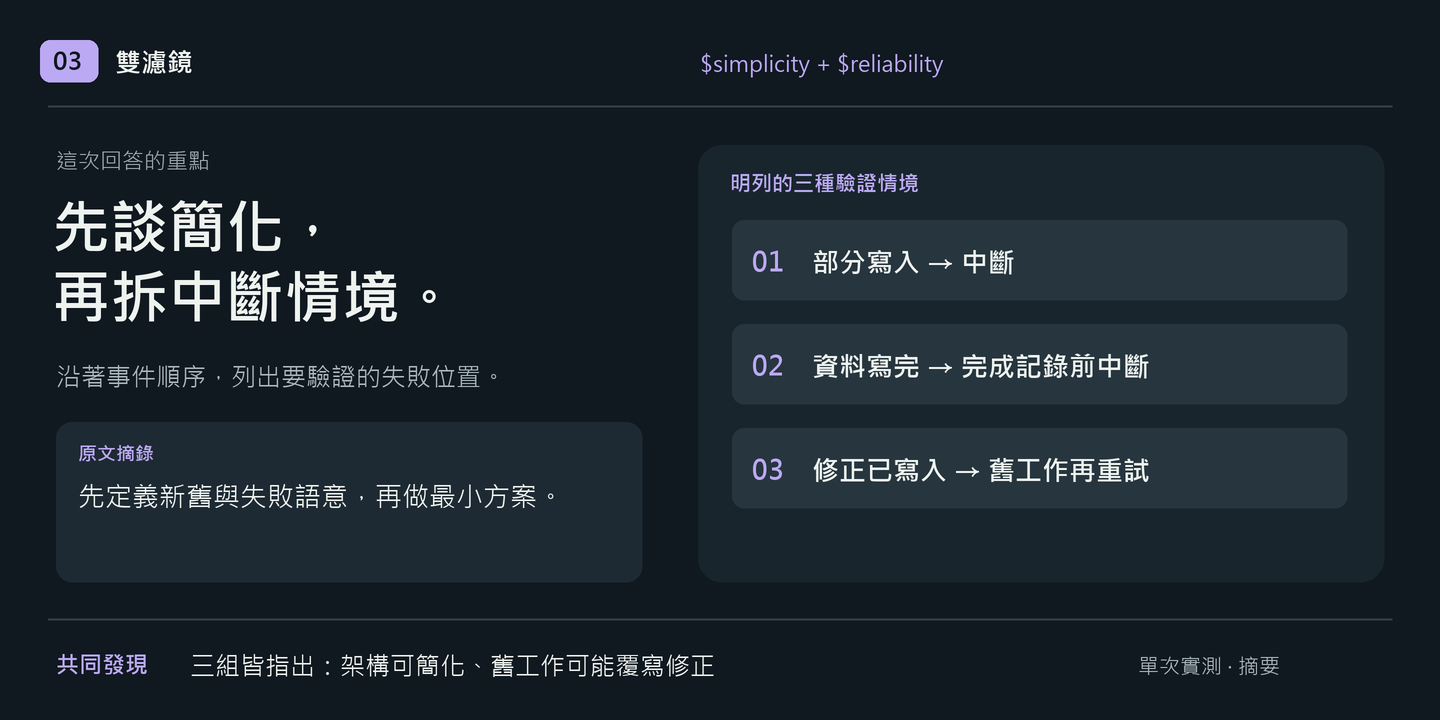
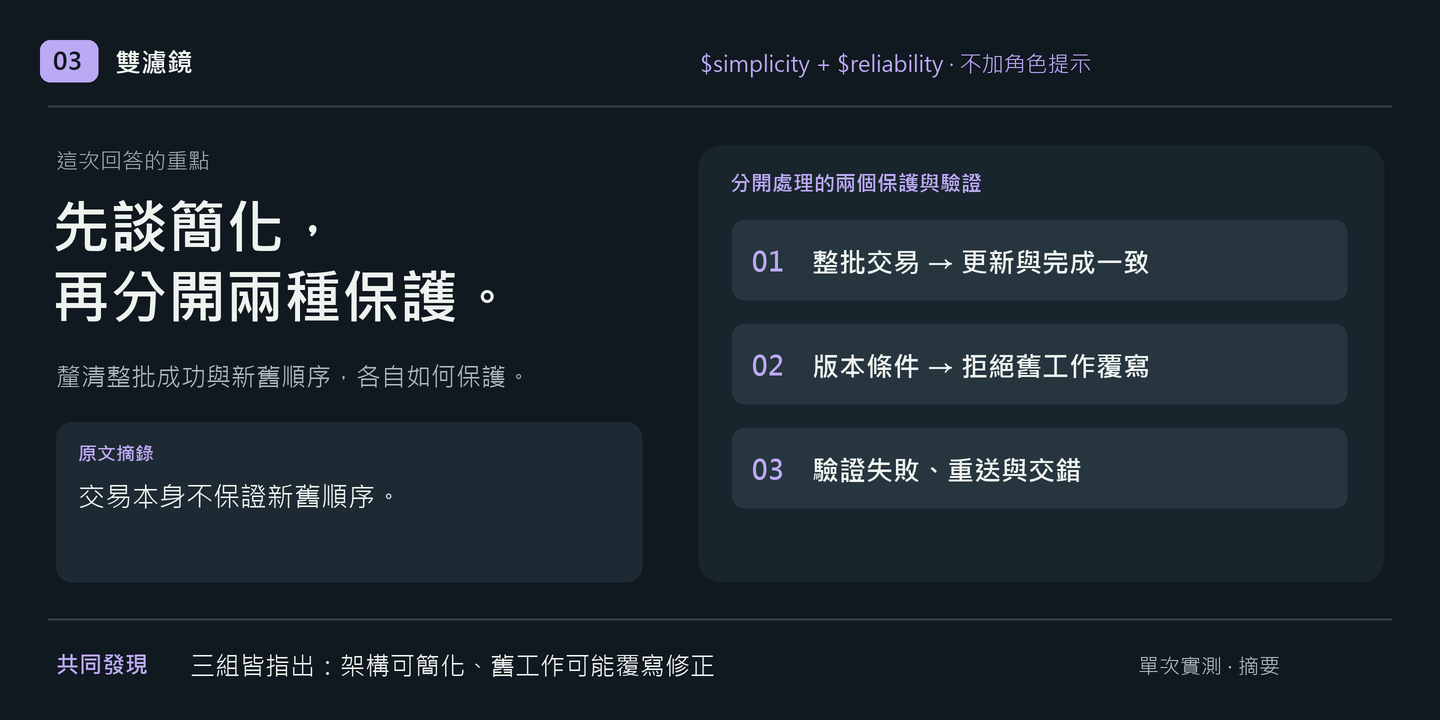
docs: rerun role prompt versus standalone lens comparison

diff --git a/scripts/render_readme_examples.py b/scripts/render_readme_examples.py
@@ -48,7 +48,7 @@ def render(slug, number, label, command, headline, subhead, quote, accent):
     box(698,145,686,437,'#18252d',24)
     if slug == 'baseline':
         txt(730,168,'回答順序',21,accent,True)
-        items=[('01','重試會覆蓋修正嗎？'),('02','架構可以縮小嗎？'),('03','先定義更新順序')]
+        items=[('01','重試會覆蓋修正嗎？'),('02','寫入與完成狀態一致嗎？'),('03','定義順序，再縮小方案')]
         for i,(n,t) in enumerate(items):
             y=221+i*104
             box(731,y,618,80,'#26353e',12)
@@ -56,7 +56,7 @@ def render(slug, number, label, command, headline, subhead, quote, accent):
             txt(820,y+20,t,30,bold=True)
             if i<2: line(771,y+80,771,y+104,accent,3)
     elif slug == 'single':
-        txt(730,168,'具體做法（若以上傳順序為準）',21,accent,True)
+        txt(730,168,'具體做法（若以受理順序為準）',21,accent,True)
         box(735,226,263,105,'#26353e',14)
         box(1080,226,263,105,'#26353e',14)
         txt(757,240,'工作',23,'#abb8bf')
@@ -70,8 +70,8 @@ def render(slug, number, label, command, headline, subhead, quote, accent):
         txt(750,478,'重試沿用序號，保護新舊順序',26)
         txt(750,521,'先簡化架構，再補必要保護',22,'#abb8bf')
     else:
-        txt(730,168,'明列的三種驗證情境',21,accent,True)
-        for i,(a,b) in enumerate([('01','部分寫入 → 中斷'),('02','資料寫完 → 完成記錄前中斷'),('03','修正已寫入 → 舊工作再重試')]):
+        txt(730,168,'分開處理的兩個保護與驗證',21,accent,True)
+        for i,(a,b) in enumerate([('01','整批交易 → 更新與完成一致'),('02','版本條件 → 拒絕舊工作覆寫'),('03','驗證失敗、重送與交錯')]):
             y=220+i*104
             box(732,y,615,80,'#26353e',12)
             txt(752,y+22,a,27,accent,True)
@@ -88,6 +88,6 @@ def render(slug, number, label, command, headline, subhead, quote, accent):
 
 seventy=70
 if __name__=='__main__':
-    render('baseline','01','無濾鏡','你是資深工程師…', ['先抓風險，','再縮小架構。'],'從資料正確性開始，接著檢查方案成本。','最重要的缺口是重試與並行更新的正確性。','#edc183')
-    render('single','02','單一濾鏡','$simplicity', ['先問必要性，','再具體到序號。'],'先談簡化，也提出更新順序的實作條件。','同一 job 重試保留序號。','#8bdbc2')
-    render('dual','03','雙濾鏡','$simplicity + $reliability', ['先談簡化，','再拆中斷情境。'],'沿著事件順序，列出要驗證的失敗位置。','先定義新舊與失敗語意，再做最小方案。','#bca9f4')
+    render('baseline','01','角色提示（無濾鏡）','只用「你是資深工程師」', ['先抓覆寫，','再查完成狀態。'],'先談兩個失敗風險，再建議縮小方案。','但交易本身不能阻止舊工作晚到覆寫。','#edc183')
+    render('single','02','單一濾鏡','$simplicity · 不加角色提示', ['先問必要性，','再具體到序號。'],'先談簡化，再提出有條件的版本方案。','減少層數或只加交易都不能解決此問題。','#8bdbc2')
+    render('dual','03','雙濾鏡','$simplicity + $reliability · 不加角色提示', ['先談簡化，','再分開兩種保護。'],'釐清整批成功與新舊順序，各自如何保護。','交易本身不保證新舊順序。','#bca9f4')

diff --git a/examples/csv-import/README.md b/examples/csv-import/README.md
@@ -1,12 +1,14 @@
 # CSV 匯入：單次三組對照
 
-2026-09-07，三個獨立 subagent 各回答一次，未繼承主對話（`fork_turns="none"`），未看到其他組回答；未重抽或改寫回答。三組沿用主代理模型設定，沒有覆寫模型或推理設定；工具沒有回傳可供核對的模型版本與隨機種子，因此不主張完全可重現。
+2026-09-07，以修正後的比較方式重新執行。三個獨立 subagent 各回答一次，未繼承主對話（`fork_turns="none"`），未看到其他組回答；本輪未重抽或改寫回答。三組沿用主代理模型設定，沒有覆寫模型或推理設定；工具沒有回傳可供核對的模型版本與隨機種子，因此不主張完全可重現。
 
-共同輸入以「你是資深工程師，請審查以下方案，提出有依據、可執行的建議」開頭；共同要求繁體中文、250–400 字、最多三個重點。長度是提示要求，輸出全文照錄，未為符合字數刪改。各組的唯一預定變因是額外讀取並使用的濾鏡。此處以讀取 SKILL.md 使用濾鏡，沒有測試安裝後的 `$` 介面。
+共同輸入只包含中性的審查要求、相同材料與問題，要求繁體中文、250–400 字、最多三個重點。只有角色組加上「你是資深工程師」；單濾鏡組只使用 simplicity，雙濾鏡組只使用 simplicity 與 reliability，兩個濾鏡組都不加資深工程師角色提示。長度是提示要求，輸出全文照錄，未為符合字數刪改。此處以讀取 SKILL.md 使用濾鏡，沒有測試安裝後的 `$` 介面。
+
+本輪比較的是角色提示與濾鏡兩種引導方式。舊版讓所有組別都帶角色提示，測到的是加成，已由本輪圖文與回答取代；舊紀錄可在 Git 歷史 `40efcca` 查閱，不納入本輪結論。
 
 | 組別 | 實際派送提示詞 | 回答全文 | 額外材料 |
 |---|---|---|---|
-| 無濾鏡 | [提示詞](baseline-prompt.txt) | [原始回答](baseline.md) | 無 |
+| 角色提示（無濾鏡） | [提示詞](baseline-prompt.txt) | [原始回答](baseline.md) | 無 |
 | 單一濾鏡 | [提示詞](single-prompt.txt) | [原始回答](single.md) | [simplicity](../../dist/skills/simplicity/SKILL.md) |
 | 雙濾鏡 | [提示詞](dual-prompt.txt) | [原始回答](dual.md) | simplicity 與 [reliability](../../dist/skills/reliability/SKILL.md) |
 
@@ -14,7 +16,7 @@
 
 ## 這次看到了什麼
 
-三組都不建議直接實作，都指出預留格式的複雜度、佇列需要量測，以及舊工作覆寫的風險。無濾鏡組先談正確性；單濾鏡組先談簡化，具體提出遞增序號，另提出手動編輯的條件性缺口；雙濾鏡組先談簡化，再描述事件順序，列出三個驗證情境。這些是本次回答的可見差異，不能歸因為濾鏡的穩定效果，也不能據此宣稱雙濾鏡較好。
+三組都不建議直接實作，都指出預留格式的複雜度、佇列需要量測、舊工作覆寫與完成狀態的風險，也都提出驗證情境。角色組先談覆寫與完成狀態，最後縮小方案，並詢問人工修改是否也要保護；單濾鏡組先談簡化，再提出以受理順序保存序號的條件式方案，提及鎖定影響待量測；雙濾鏡組同樣先談簡化，明確詢問是否允許部分成功，分開說明交易與版本條件的用途。三組都有區分交易與更新順序的保護，並非雙濾鏡獨有發現。這些是本次回答的可見差異，不能歸因為濾鏡的穩定效果，也不能據此宣稱雙濾鏡較好。
 
 這是虛構方案的單次提示對照，未執行回答中的技術建議，未測量正確率或新使用者理解程度。沒有獨立評分或多次重跑。
 
@@ -27,7 +29,7 @@
[2 lines of base64/hex data omitted]
 
-圖片是編輯整理的重點摘要，搭配回答順序、條件式序號方案或驗證情境的視覺呈現；每張附一句逐字原文摘錄。完整原始回答保留在上方連結，摘要不代表其他組沒有提到該項內容。腳本會核對摘錄存在於原文。可在 Windows、已安裝 Pillow 與微軟正黑體的環境重建：
+圖片是編輯整理的重點摘要，搭配各組回答的視覺呈現；每張附一句逐字原文摘錄。完整原始回答保留在上方連結，摘要不代表其他組沒有提到該項內容。腳本會核對摘錄存在於原文。可在 Windows、已安裝 Pillow 與微軟正黑體的環境重建：
 
 ```powershell
 python -B -X utf8 scripts/render_readme_examples.py

diff --git a/README.md b/README.md
@@ -8,15 +8,15 @@
 
 **同一份材料，換個關注面向，回答會差在哪？** 我們讓三個獨立 subagent 審查同一份 CSV 客戶匯入方案：目前只需 CSV，提案預留多格式架構，失敗會整批重試，也可能與修正後的匯入同時執行。
 
-三組都使用「你是資深工程師，請審查以下方案，提出有依據、可執行的建議」，後兩組再加入指定濾鏡。下圖將單次實測整理成重點摘要，各附一句原文；完整回答見下方連結。
+三組使用相同材料與問題：**角色組只加「你是資深工程師」，單濾鏡組只用 `$simplicity`，雙濾鏡組只用 `$simplicity` ＋ `$reliability`。** 兩個濾鏡組都不加資深工程師角色提示。下圖將單次實測整理成重點摘要，各附一句原文；完整回答見下方連結。
 
-![無濾鏡實際回答：指出舊工作覆寫風險、縮小架構與定義更新順序。完整文字見下方連結。](docs/images/csv-import-baseline.png)
+![角色提示組：先談舊工作覆寫與完成狀態，再縮小方案。完整文字見下方連結。](docs/images/csv-import-baseline.png)
 
-![單一 simplicity 濾鏡實際回答：先檢查必要複雜度，再具體提出遞增序號。完整文字見下方連結。](docs/images/csv-import-single.png)
+![單一 simplicity 濾鏡：不加角色提示，先檢查必要複雜度，再提出以受理順序保存序號的方案。完整文字見下方連結。](docs/images/csv-import-single.png)
 
-![雙濾鏡實際回答：簡化架構、分析舊工作覆寫順序，並列出中斷與重試情境。完整文字見下方連結。](docs/images/csv-import-dual.png)
+![雙濾鏡：不加角色提示，先談簡化，再分開說明整批交易與版本條件的保護。完整文字見下方連結。](docs/images/csv-import-dual.png)
 
-**這次三組都抓到了主要風險，雙濾鏡沒有多找到一個關鍵缺陷。** 差異主要在論述順序與具體程度；單次結果不代表品質排名。你可以用濾鏡指定這次最想釐清的問題，不必追求更多濾鏡。
+**這次三組都抓到了主要風險，也都提出驗證情境；雙濾鏡沒有多找到一個關鍵缺陷。** 角色組先談失敗風險，兩個濾鏡組先談架構簡化；單次結果不代表品質排名。你可以用濾鏡指定這次最想釐清的問題，不必追求更多濾鏡。
 
 [查看相同材料與問題](examples/csv-import/input.md) · [查看三組提示詞、回答文字與測試限制](examples/csv-import/README.md)
 

diff --git a/examples/csv-import/single.md b/examples/csv-import/single.md
@@ -1,5 +1,5 @@
-1. **不建議直接實作。**依 $simplicity 濾鏡，目前只有 CSV，Factory 與格式策略缺乏已知需求；可先由既有服務承接解析、驗證與寫入。佇列是否必要，應看實測耗時與請求逾時限制；每次最多 500 筆不足以判定同步處理可行。
+- **不值得直接實作。**以 simplicity 濾鏡看，Factory 預留的 JSON、Excel 尚無需求，可先省去策略切換，讓匯入服務直接處理 CSV。現有規模也未證明需要佇列；先量測 500 筆處理時間，再決定是否背景執行。
 
-2. **優先補齊資料一致性。**逐筆提交會留下部分結果；全部寫完但尚未標記完成時中斷，也會重跑。相同 email 的更新只能避免重複客戶，無法防止舊工作重送後覆蓋修正版。把客戶更新與完成狀態放進同一交易可避免部分提交，但仍須另行保護新舊順序。
+- **首要缺口是重試與更新順序。**逐筆提交後中斷會留下部分結果；即使資料全寫完，也可能尚未標記 completed。整批重投時，舊 CSV 可能覆蓋新工作的修正。email 唯一鍵只防重複客戶，無法判斷資料新舊；減少層數或只加交易都不能解決此問題。
 
-3. **下一步先定義「新資料」的判準，再縮減方案。**若以上傳順序為準，可替工作配置遞增序號，客戶保存最後套用序號，寫入時原子判斷是否允許更新；同一 job 重試保留序號。先驗證中斷重試、完成狀態與併發覆蓋，再依耗時決定是否保留 worker。若「修正」也包含手動編輯，現有材料不足，須納入同一保護規則。
+- **下一步先定義「新舊」，再做最小流程。**材料未說明以何種順序認定修正優先；若採工作受理順序，可保存序號，重試沿用原序號，客戶僅接受較新版本，並將資料更新與完成狀態放入同一交易。用中斷重試、完成回應遺失、舊工作晚於新工作執行三種情境驗證；實際耗時與鎖定影響仍待量測。

diff --git a/examples/csv-import/baseline.md b/examples/csv-import/baseline.md
@@ -1,5 +1,5 @@
-1. **不建議直接實作。** 最重要的缺口是重試與並行更新的正確性。逐筆提交後若中斷，已寫入的資料會保留；整個工作重送時，舊 CSV 可能覆蓋另一個工作剛修正的姓名與電話。email 唯一鍵只能避免重複客戶，無法判定哪份資料較新。
+1. **不建議直接實作。** 最重要的缺口是重試與並行會覆蓋較新的修正。例如舊工作寫入一半後中斷，新工作先完成修正，舊工作重新投遞後又寫回舊值。email 唯一鍵只能避免重複客戶，無法防止舊資料覆蓋。
 
-2. **先縮小架構。** 目前僅有 CSV，沒有已排定的其他格式需求，Factory 與 Strategy 可先省略。每次最多 500 筆，也不足以證明需要佇列與 worker；先量測匯入耗時，再依請求逾時限制決定是否背景執行，避免增加維運負擔。
+2. **寫入與完成狀態可能不一致。** 每筆各自提交，失敗會留下部分更新；全部寫完但尚未標記 completed 時中斷，也會重跑。建議先評估將整批更新與完成狀態放在同一資料庫交易，失敗時整批回復；但交易本身不能阻止舊工作晚到覆寫。
 
-3. **先定義更新順序，再驗證失敗情境。** 建議先解析、驗證整份 CSV，將客戶更新與 completed 狀態放入同一交易，避免部分成功。另需明定新舊工作的優先規則，透過版本檢查阻止舊工作覆寫；單靠交易不足以做到。下一步測試中斷、重送及新舊工作交錯。目前未知實際耗時，以及使用者是否接受整批失敗。
+3. **下一步先定義更新先後，再做最小方案。** 確認「較新」是否依上傳順序判定，以及人工修改是否也要保護，再選擇序號或版本檢查機制。先保留 Controller、Service、Repository，暫緩無具體需求的 Factory。500 筆可先量測同步匯入耗時，再決定是否需要佇列；並驗證中斷重試、完成標記前中斷及新舊工作交錯三種情境。

diff --git a/examples/csv-import/dual.md b/examples/csv-import/dual.md
@@ -1,5 +1,5 @@
-1. **不建議直接實作。**以 simplicity 濾鏡看，目前只有 CSV，Factory 與格式策略缺乏已知需求；可先由匯入服務直接處理 CSV，沿用資料存取層。佇列是否必要，仍須量測 500 筆耗時與請求逾時限制，不能只靠使用人數判斷。
+1. **不建議直接實作。**以 simplicity 濾鏡看，目前只需 CSV，Factory 預留 JSON、Excel 缺乏需求依據；可先由 Controller → Service → Repository 承接解析與寫入。佇列是否必要，仍需量測 500 筆耗時與請求時限，不能只憑規模決定。
 
-2. **reliability 的關鍵是舊工作覆寫。**舊工作部分提交後中斷，新工作寫入修正資料，舊工作重送便可能覆蓋修正。email 唯一鍵只防重複客戶，job_id 也不足以判斷資料新舊。此外，全部資料寫完、completed 尚未記錄時中斷，仍會重跑整批。
+2. **以 reliability 濾鏡看，重試可能覆蓋修正。**舊工作寫入部分資料後中斷，新工作完成修正，舊工作重送便可能覆蓋新值。email 唯一鍵只能避免重複客戶；job_id 也不能判定哪份資料較新。全部寫完、尚未標記 completed 時中斷，同樣會觸發重做。
 
-3. **先定義新舊與失敗語意，再做最小方案。**確認「新」按上傳或接受順序，以及失敗是否允許部分成功。若採整批成功，將客戶更新與完成狀態放入同一資料庫交易；另以固定工作版本及原子條件更新阻止舊版覆寫，重試沿用原版本。驗證部分寫入中斷、完成記錄前中斷、舊工作晚於修正工作重試三種情境。
+3. **下一步先定義新舊順序與提交邊界。**確認是否以上傳受理順序為準、是否允許部分成功。若要求整批成功，可將客戶更新與完成狀態放入同一交易；另以資料庫原子版本條件拒絕舊工作覆寫，交易本身不保證新舊順序。驗證中途失敗、提交後重送及新舊工作交錯，再決定執行方式。

diff --git a/examples/csv-import/input.md b/examples/csv-import/input.md
@@ -1,4 +1,4 @@
-你是資深工程師，請審查以下方案，提出有依據、可執行的建議。
+請審查以下方案，提出有依據、可執行的建議。
 
 ## 材料
 
